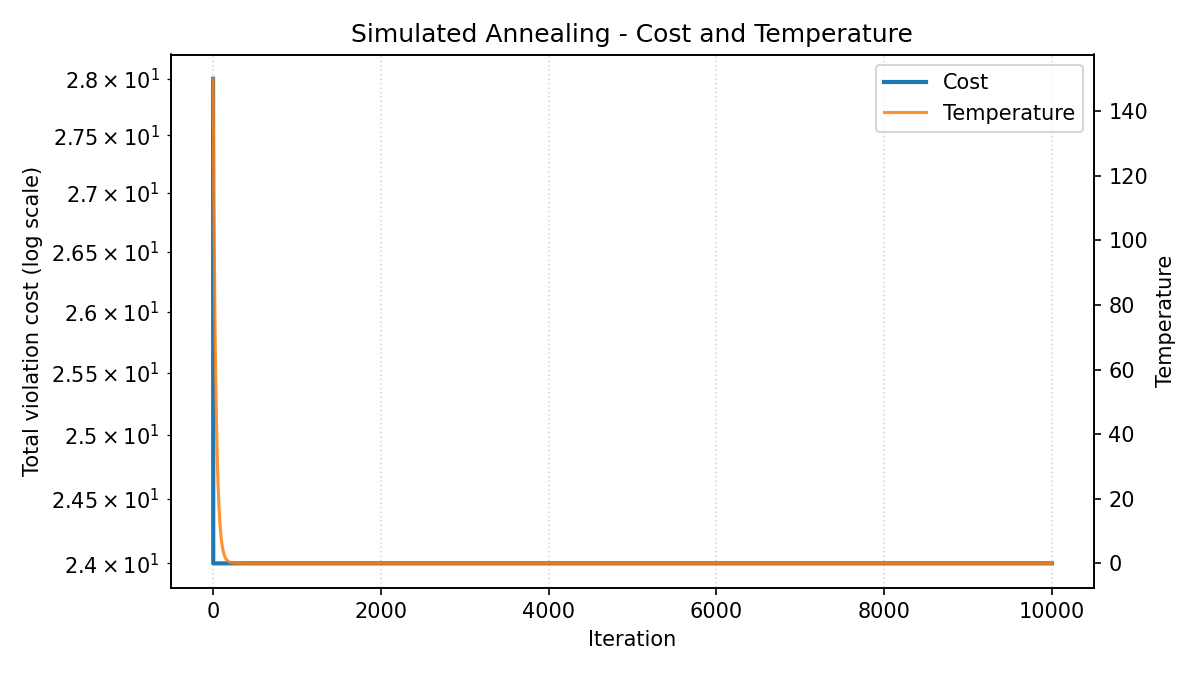
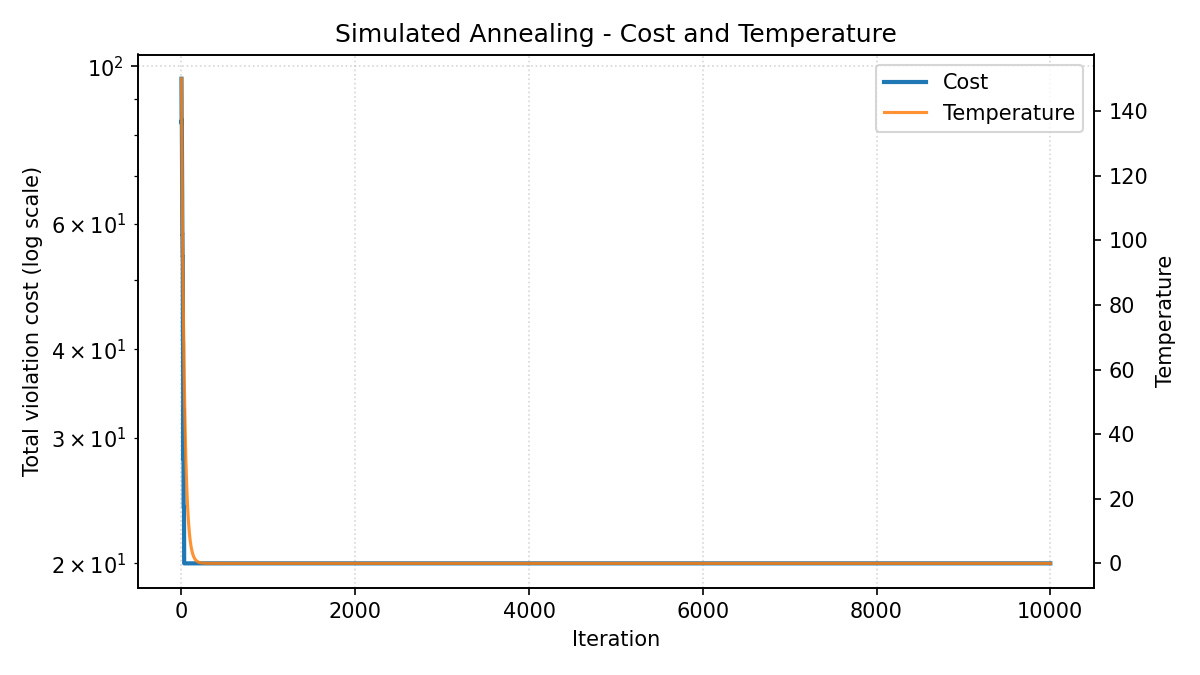
Starting annealing from random

diff --git a/src/judge_assignment_algorithm.py b/src/judge_assignment_algorithm.py
@@ -32,7 +32,7 @@ class AlgorithmConfig:
     COOLING_RATE: float = 0.97
     ITERATIONS: int = 10000
     RANDOM_SEED: Optional[int] = None
-    START_FROM_RANDOM: bool = False
+    START_FROM_RANDOM: bool = True
     FORCE_MOVE_PROB: float = 0.30
     RANDOM_VIOLATION_PROB: float = 0.10
     REHEAT_INTERVAL: int = 1000

diff --git a/data/outputs/assignment_results.md b/data/outputs/assignment_results.md
@@ -1,47 +1,47 @@
 Room 1:
 - Judges:
-  - Dr. Alan Turing (Algolabs / Algorithm Design)
+  - Tim Berners-Lee (WebCreate Solutions / Web Development)
   - Dr. Sarah Chen  // not affiliated with a sponsoring company
+  - Dr. James Patel  // not affiliated with a sponsoring company
 
 - Participants:
-  - Alice Johnson (Algorithm Design)
-  - Bob Smith (Algorithm Design)
-  - Grace Hopper (Algorithm Design)
-  - Maya Patel (Algorithm Design)
-  - Rosa Kim (Algorithm Design)
+  - Liam O'Connor (Cybersecurity)
+  - Quinn Taylor (Cybersecurity)
+  - Iris Chang (Web Development)
+  - Peter Zhang (Web Development)
+  - Jack Ryan (Web Development)
 
 Room 2:
 - Judges:
-  - Prof. Donald Knuth (StructuraTech / Data Structures)
+  - Dr. Yann LeCun (DeepVision AI / Machine Learning)
   - Dr. Maria Gomez  // not affiliated with a sponsoring company
 
 - Participants:
-  - Charlie Brown (Data Structures)
-  - Diana Prince (Data Structures)
-  - Henry Ford (Data Structures)
-  - Noah Garcia (Data Structures)
-  - Samir Ahmed (Data Structures)
+  - Frank Miller (Machine Learning)
+  - Olivia Martinez (Machine Learning)
+  - Eve Wilson (Machine Learning)
+  - Tina Nguyen (Machine Learning)
 
 Room 3:
 - Judges:
-  - Tim Berners-Lee (WebCreate Solutions / Web Development)
-  - Dr. Yann LeCun (DeepVision AI / Machine Learning)
+  - Prof. Donald Knuth (StructuraTech / Data Structures)
 
 - Participants:
-  - Eve Wilson (Machine Learning)
-  - Frank Miller (Machine Learning)
-  - Olivia Martinez (Machine Learning)
-  - Tina Nguyen (Machine Learning)
-  - Iris Chang (Web Development)
-  - Jack Ryan (Web Development)
+  - Charlie Brown (Data Structures)
+  - Noah Garcia (Data Structures)
+  - Samir Ahmed (Data Structures)
+  - Diana Prince (Data Structures)
+  - Henry Ford (Data Structures)
 
 Room 4:
 - Judges:
-  - Dr. James Patel  // not affiliated with a sponsoring company
+  - Dr. Alan Turing (Algolabs / Algorithm Design)
   - Dr. Alex Rivera  // not affiliated with a sponsoring company
 
 - Participants:
+  - Grace Hopper (Algorithm Design)
   - Karen Lee (Cybersecurity)
-  - Liam O'Connor (Cybersecurity)
-  - Peter Zhang (Web Development)
-  - Quinn Taylor (Cybersecurity)
+  - Maya Patel (Algorithm Design)
+  - Alice Johnson (Algorithm Design)
+  - Rosa Kim (Algorithm Design)
+  - Bob Smith (Algorithm Design)

diff --git a/data/outputs/assignment_violations.md b/data/outputs/assignment_violations.md
@@ -1,14 +1,14 @@
 Summary:
 - Total groups: 4
-- Total violations: 6
-- Weighted violation cost: 16.0
+- Total violations: 5
+- Weighted violation cost: 14.0
 - Violations by type:
-  - less_than_three_judges: 4
   - no_specialized_judge: 2
+  - less_than_three_judges: 3
 
 Room 1:
 - Violations:
-  - less_than_three_judges: Group has only 2 judges (minimum 3 required; deficit 1) (cost: 2.0)
+  - no_specialized_judge: No specialized judge for problem C1 (affects 2 participants) (cost: 4.0)
 
 Room 2:
 - Violations:
@@ -16,10 +16,9 @@ Room 2:
 
 Room 3:
 - Violations:
-  - less_than_three_judges: Group has only 2 judges (minimum 3 required; deficit 1) (cost: 2.0)
+  - less_than_three_judges: Group has only 1 judges (minimum 3 required; deficit 2) (cost: 2.0)
 
 Room 4:
 - Violations:
-  - no_specialized_judge: No specialized judge for problem C1 (affects 3 participants) (cost: 4.0)
-  - no_specialized_judge: No specialized judge for problem X4 (affects 1 participants) (cost: 4.0)
+  - no_specialized_judge: No specialized judge for problem C1 (affects 1 participants) (cost: 4.0)
   - less_than_three_judges: Group has only 2 judges (minimum 3 required; deficit 1) (cost: 2.0)
